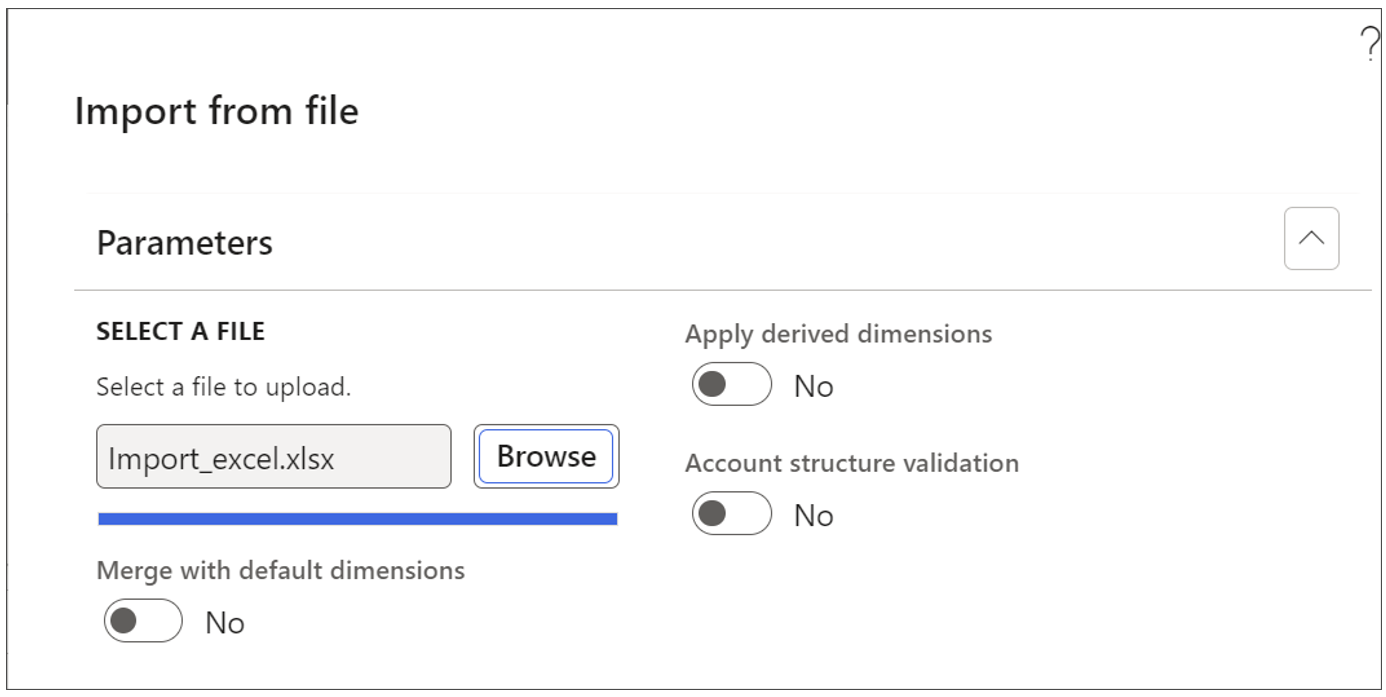
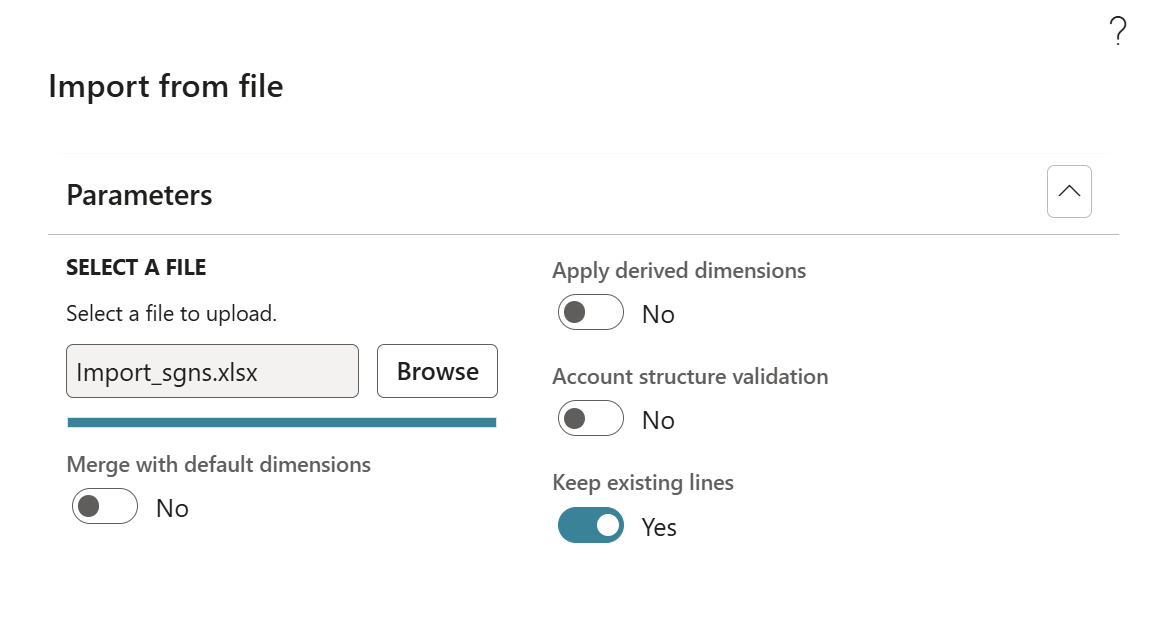
update2505281

diff --git a/docs/user-manual/21-generate-template-import-coding/1-generate-template-import-invoice-lines.md b/docs/user-manual/21-generate-template-import-coding/1-generate-template-import-invoice-lines.md
@@ -12,7 +12,7 @@ import anythingYouWant from "/video/Import_Coding_From_Excel.mp4";
 
 ExFlow \| Setup \| Miscellaneous \| Generate template for importing invoice lines
 
-The ExFlow Import form features a function that enables users to import lines from a CSV or Excel sheet, resulting in the creation of an imported invoice. This functionality also allows users to generate CSV or Excel file templates specifically tailored to different line types such as Ledger, Projects, or Fixed Assets. It's important to remember that separate templates must be created for each line type.
+The "ExFlow Import from file" feature is a function that enables users to import coding lines from a CSV or Excel sheet. This functionality also allows users to generate CSV or Excel file templates specifically tailored to different line types such as ledger, project, fixed asset or procurement and with support for multiple lines types and possibility to import different line types from file for same invoice.
 One common business scenario where this functionality is useful is when a user needs to split an invoice into multiple lines. The pre- defined template is created and managed in Excel.
 A typical example is if a company receives cost invoices of employee’s cell phones that each line on the invoice is marked with a telephone number and that represents the cost center for that employee. The benefit of this is then that you will get the invoice on line level already divided into separate lines with the correct accounting. 
 
@@ -21,28 +21,30 @@ A typical example is if a company receives cost invoices of employee’s cell ph
 ### Step by Step process
 
 #### Generate a new template for importing invoice lines
-a.	Go to ExFlow – Setup – Miscellaneous - Generate template for importing invoice lines.
-b.	Select the file format for import; Excel or CSV.
-c.	Select the Content; Ledger, Project or Fixed asset.
+a.	Navigate to ExFlow – Setup – Miscellaneous - Generate template for importing invoice lines.<br/>
+b.	Select the file format for import; Excel or CSV.<br/>
+c.	Select the Content; Ledger, Project, Fixed asset or Procurement.<br/>
 
 ![Table Description automatically generated](@site/static/img/media/image203.png)
 
-d.	Press OK (the editable file is now generated).
-e.	Save the generated file on your computer.
-f.	Populate the template with the line information required and save the file.
+d.	Press OK (the editable file is now generated).<br/>
+e.	Save the generated file on your computer.<br/>
+f.	Populate the template with the line information required and save the file.<br/>
 
 ![Table Description automatically generated](@site/static/img/media/image204.png)
 
 #### Import the file to the invoice from import form
 
-a.	Go to ExFlow Invoices – Import form (All or Expense).
-b.	Select “Edit” to make changes on the invoice.
-c.	Go to general –> import from file.
+a.	Navigate to ExFlow Invoices – Import form (All or Expense).<br/>
+b.	Select “Edit” to make changes on the invoice.<br/>
+c.	Go to general –> Import from file.<br/>
 
 ![Table Description automatically generated](@site/static/img/media/image205.png)
 
-d.	Select “Browse” and find the file with populated with data that you saved in earlier step.
-e.	Press OK, the invoice will now be populated with data from the CVS/excel file.
+d.	Select “Browse” and find the file with populated with data that you saved in earlier step. <br/>
+e.  If required, select the options for merge default dimensions, apply derived dimensions, validate account structure or Keep existin lines as explained in the table below. <br/>
+f. Press OK, the invoice will now be populated with data from the CSV/excel file.<br/>
+g.	All the rows from the template are imported and applied as invoice lines.<br/> 
 
 ![Table Description automatically generated](@site/static/img/media/image206.png)
 
@@ -51,9 +53,7 @@ e.	Press OK, the invoice will now be populated with data from the CVS/excel file
 Merge with default dimensions | Merge from default main account and financial dimensions from vendor account.
 | Apply derived dimensions | When enabled, ExFlow utilizes derived dimensions from the dimension setup in cases where no specific dimensions are defined within the template. |
 | Account Structure validation | This parameter performs a validation process by comparing the dimensions per invoice line in the template with the dimension account structures. In the event of a mismatch, ExFlow will refrain from importing any account or dimension associated with that line. |
-
-
-f.	All the rows from the template are imported and applied as invoice lines: 
+|Keep existing lines|Keeps the existing/original coding lines on the invoice and adding the lines from template when importing lines from file.|
 
 **Tips!** You can save the generated template and reuse it for the next invoice.
 

diff --git a/docs/user-manual/3-get-started/5-upgrade-information.md b/docs/user-manual/3-get-started/5-upgrade-information.md
@@ -35,22 +35,62 @@ Main purpose of this development was to get away from the arrival registration o
 - Mainly for US market and new customers who don´t want to use the arrival registration process.
 - To avoid problems with VAT on two occasions.
 
-### Prerequisites
--	Supported from ExFlow version 2.16.0.
--	Setup 2 journals, one for temporary journals and one for invoice journal.
-    - Journal type: Vendor invoice recording.
-    - Sales tax – **NOT** include sales tax.
-- Approval journal.
-    - Journal type: Approval.
-    - Sales tax – **NOT** include sales tax.
--	Activate feature in ExFlow AP – Parameters – Posting logic – Direct posting.
-    - Approved by: is mandatory to set for the direct posting process.
--	Sales tax handling.
-    - ExFlow parameter for Tax calculation framework need to be enabled.
-    - Scanned tax – tax on invoice.
+### Direct Posting Setup in ExFlow
+1. **Prerequisites**
+- **ExFlow version:** Supported from v2.16.0.
+- **Activate Direct Posting:**
+    - Navigate to ExFlow AP - Parameters - Posting logic - Direct posting
+    - Enable "Direct posting".
+
+2. **Mandatory settings**
+- **Approved by:**
+    - Must be set for the Direct Posting process.
+    - Defaults from “Default approved by” in Posting logic section of ExFlow parameters.
+- **Enable Tax Calculation Framework:**
+    - Go to Sales tax section in ExFlow parameters.
+    - Enable “Tax calculation framework”.
+
+3. **Choose Setup Option**
+**Option 1: Net Amount + Scanned Sales Tax (Default Setup)**
+- **Invoice Line Handling:**
+    - Net amount on lines.
+    - Sales tax is scanned/received from invoice header.
     - Calculated tax on lines shall sum up to the sum of scanned tax amount.
--	If needed, activate batch jobs for delete temporary journals separately. See below description in parameters.
--	For customers that already runs ExFlow in the Invoice register process it is very important to empty and handle the open transactions. See more information below under upgrade information.
+- **Journal Setup:**
+    - Create 2 journals:
+    - Temporary journal
+    - Invoice journal
+        - **Journal type:** Vendor invoice recording
+        - **Sales tax:** **DO NOT** include sales tax
+-  **Additional Parameter Settings:**
+    - Enable **“Adjust VAT in Invoice journal”** (Sales tax section)
+        - Set tolerance values to auto-allocate VAT differences.
+    - Enable **“Validate sales tax difference at posting”** (Posting logic section).
+    - (Optional) Enable **“Validate tax difference before send out for approval”**
+        - This is optional, if validation should already happen in the ExFlow import form.<br/>
+
+**Option 2: Gross Amount + No Scanned Sales Tax**
+- **Invoice Line Handling:**
+    - Gross amount on lines.
+    - Do not scan or receive sales tax from invoice header.
+- **Journal Setup:**
+    - Create 2 journals:
+        - Temporary journal
+        - Invoice journal
+    - **Journal type:** Vendor invoice recording
+    - **Sales tax:** Amounts include sales tax
+- **Parameter Settings:**
+    - **Disable** “Adjust VAT in Invoice journal”
+    - **Disable** “Validate sales tax difference at posting”
+
+4. **Additional Configuration**
+- **Batch Jobs:**
+    - (If needed) Activate batch jobs to delete temporary journals.
+    - See description in Parameters for setup.
+- **Upgrade Note** (for existing Invoice Register users):
+    - Important: **Empty and manage open transactions** before activating Direct Posting.
+    - See upgrade section for full details.
+
 
 ### Limitations
 **The following features are not supported in this version:**
@@ -60,7 +100,7 @@ Main purpose of this development was to get away from the arrival registration o
 - Support for external tax engines, e.g. Wolter Kluwer’s CCH SureTax.
 - India Sales Tax and localization.
 - Vendor statement reconciliation.
-- PO re-connect app.
+- PO re-connect app. (deprecated)
 - Project operations.
 - Document summarize and Split and validate functionality.
 

diff --git a/docs/user-manual/11-automatic-postings/1-setup-automatic-postings.md b/docs/user-manual/11-automatic-postings/1-setup-automatic-postings.md
@@ -85,7 +85,7 @@ The function vendors for goods arrival are used for invoices that are put on hol
 
 ### Attribute value map
 
-Attribute value map is used to setup tags that are read from the imported XML file that holds line level data for cost account invoices such as ledger accounts, dimensions, tax settings etc. To use this functionality, contact Signup Software AB or your partner for further discussions on how to configure the XML file that is used for import invoice data.
+Attribute value map is used to setup tags that are read from the imported XML file that holds line level data for cost account invoices such as ledger accounts, dimensions, charges (misc.) and tax settings etc. To use this functionality, contact Signup Software AB or your partner for further discussions on how to configure the XML file that is used for import invoice data.
 
 ![A picture containing text, screenshot, indoor Description automatically generated](@site/static/img/media/image53.png)
 
@@ -96,7 +96,7 @@ Attribute value map is used to setup tags that are read from the imported XML fi
 |Account relation|Choose specific vendor/group depending on settings in account code.<br/>See the below section for setting up ExFlow approval groups.|
 |Reference|Reference|
 |Key|The name of the tag in the XML file.|
-|Column reference|The destination field in D365FO (the fields that are setup in ExFlow columns for the current company.|
+|Column reference|The destination field in D365FO (the fields that are setup in ExFlow columns for the current company, e.g. project, cost center or misc).|
 |Pass–through|If checked the raw data from the XML file is sent directly to the destination field.|
 |From value setup| Priority setup for finding values. When importing an invoice with line attributes, the priority is to find value for:<br/>1. "Exactly like" setup - value is exactly the same as in "From value" field.<br/>2. "Begins with" - value starts with the same character as in "From value" field.<br/>3. "Ends with" - value ends with the same character as in "From value" field.<br/>4. "Contains" - value contains characters as in "From value" field.<br/>5. "Pass through" - blanks out the "From value" and "To value" fields and sends the raw data from the XML file directly to the destination field.|
 |From value|If the value in the XML file is the same it is triggering a translation to the value in the "To value field", see below.|
